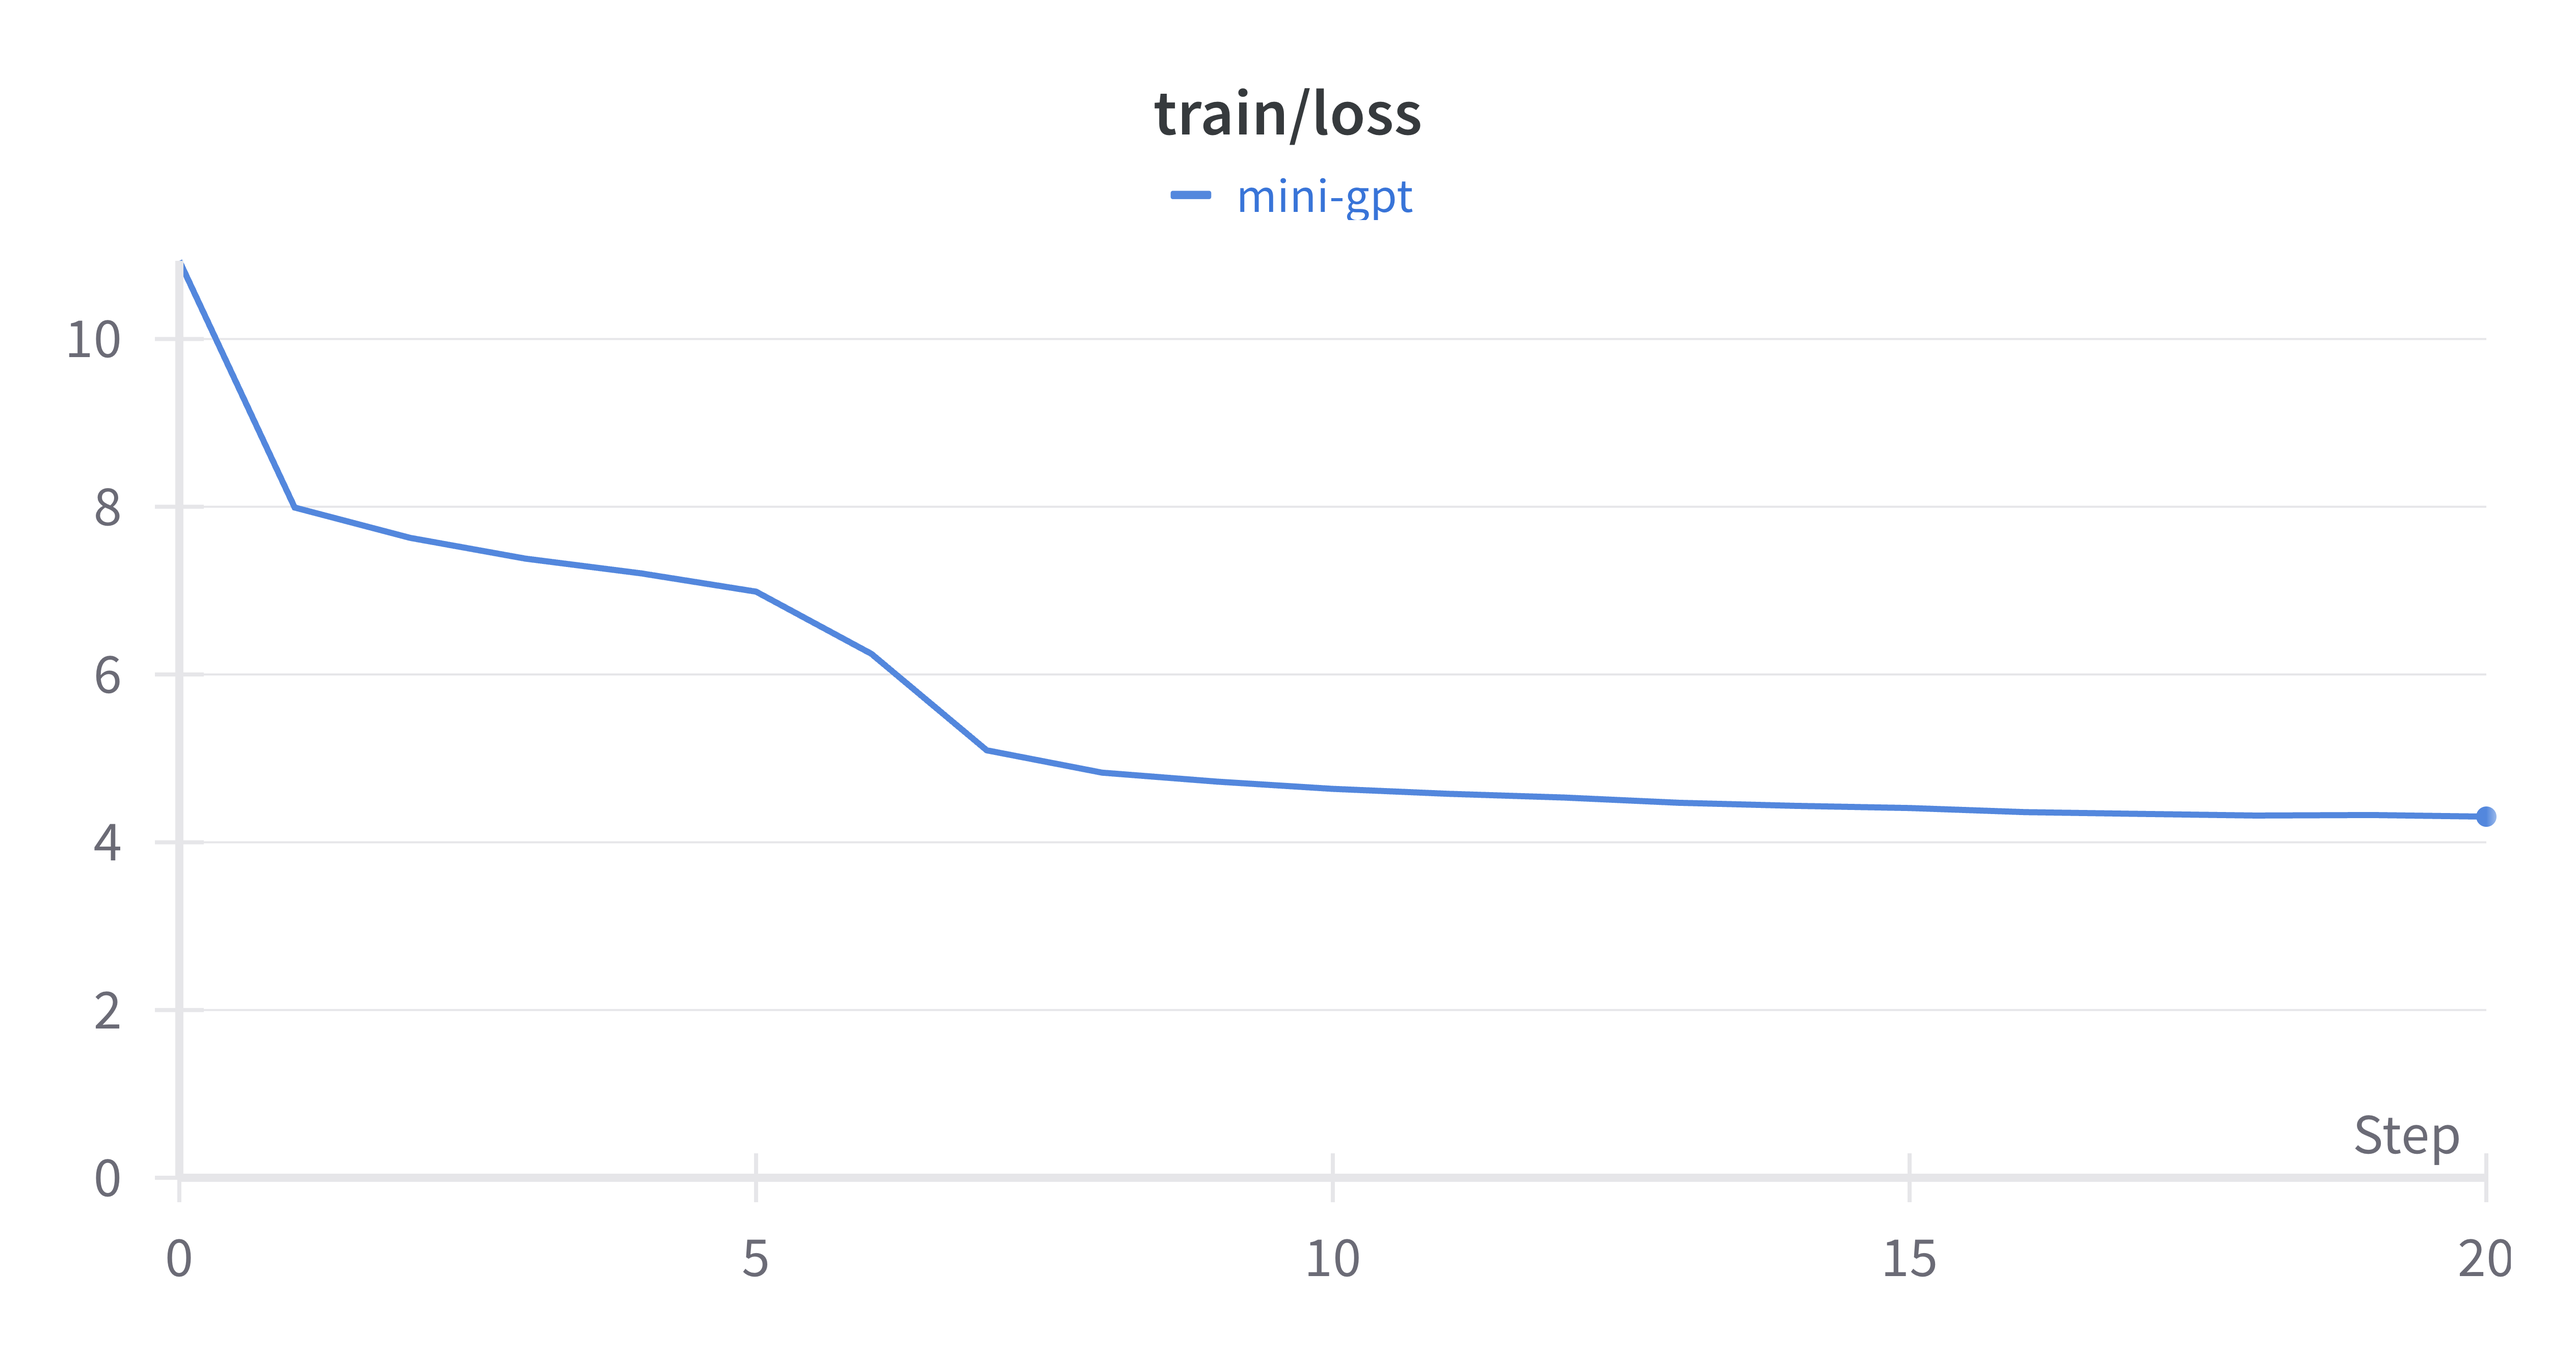
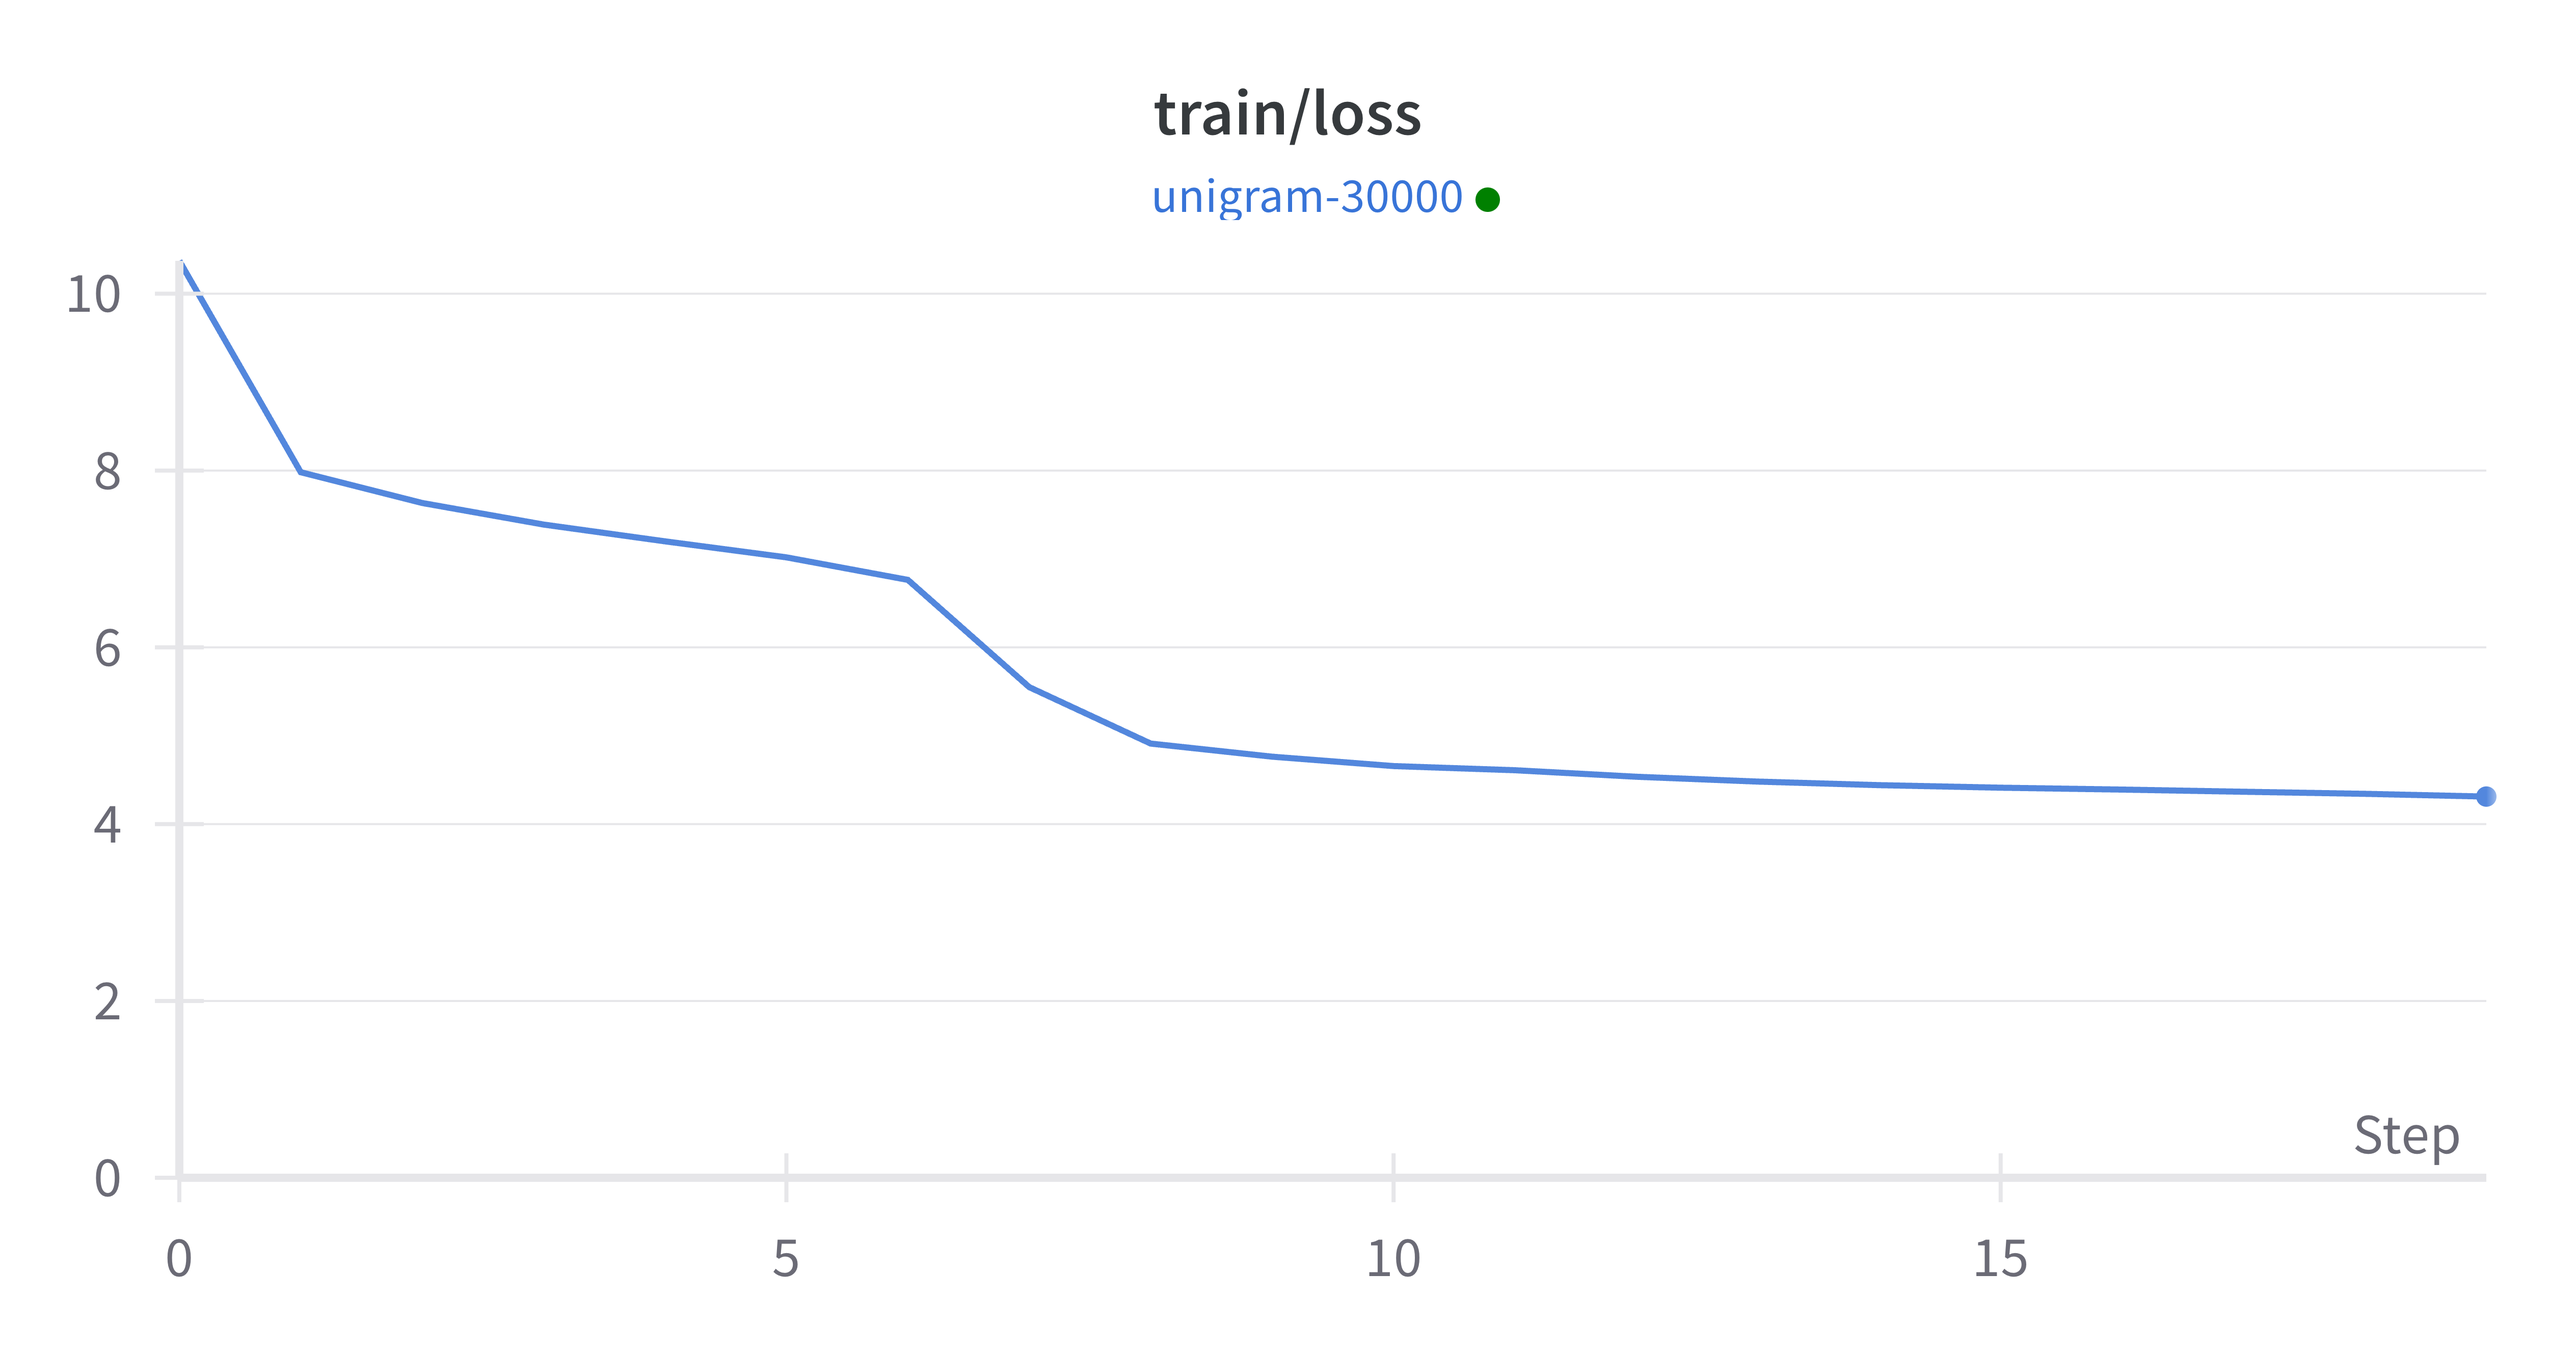
finish 1.st part

diff --git a/train.py b/train.py
@@ -29,6 +29,9 @@ from torch.distributed import init_process_group, destroy_process_group
 
 from model import GPTConfig, GPT
 
+WANDB_API_KEY = '79614754350ba92f82c0502f5e8c9625676cf1b9'
+os.environ["WANDB_API_KEY"] = WANDB_API_KEY
+
 # -----------------------------------------------------------------------------
 # default config values designed to train a gpt2 (124M) on OpenWebText
 # I/O
@@ -155,7 +158,7 @@ if init_from == 'scratch':
 elif init_from == 'resume':
     print(f"Resuming training from {out_dir}")
     # resume training from a checkpoint.
-    ckpt_path = os.path.join(out_dir, 'ckpt.pt')
+    ckpt_path = os.path.join(out_dir, wandb_run_name+'_ckpt.pt')
     checkpoint = torch.load(ckpt_path, map_location=device)
     checkpoint_model_args = checkpoint['model_args']
     # force these config attributes to be equal otherwise we can't even resume training
@@ -241,7 +244,7 @@ def get_lr(it):
 # logging
 if wandb_log and master_process:
     import wandb
-    wandb.login(key="79614754350ba92f82c0502f5e8c9625676cf1b9")
+    wandb.login(key=WANDB_API_KEY)
     wandb.init(project=wandb_project, name=wandb_run_name, config=config)
 
 # training loop
@@ -281,7 +284,7 @@ while True:
                     'config': config,
                 }
                 print(f"saving checkpoint to {out_dir}")
-                torch.save(checkpoint, os.path.join(out_dir, 'ckpt.pt'))
+                torch.save(checkpoint, os.path.join(out_dir, wandb_run_name+'ckpt.pt'))
     if iter_num == 0 and eval_only:
         break
 

diff --git a/sample.py b/sample.py
@@ -12,7 +12,8 @@ import sentencepiece as spm
 # -----------------------------------------------------------------------------
 init_from = 'resume' # either 'resume' (from an out_dir) or a gpt2 variant (e.g. 'gpt2-xl')
 out_dir = 'out' # ignored if init_from is not 'resume'
-tokenizer = 'bpe'
+wandb_run_name = 'unigram-30000'
+tokenizer = None
 vocab_size = 30000
 start = "\n" # or "<|endoftext|>" or etc. Can also specify a file, use as: "FILE:prompt.txt"
 num_samples = 10 # number of samples to draw
@@ -37,7 +38,7 @@ ctx = nullcontext() if device_type == 'cpu' else torch.autocast(device_type=devi
 # model
 if init_from == 'resume':
     # init from a model saved in a specific directory
-    ckpt_path = os.path.join(out_dir, 'ckpt.pt')
+    ckpt_path = os.path.join(out_dir, wandb_run_name+'ckpt.pt')
     checkpoint = torch.load(ckpt_path, map_location=device)
     gptconf = GPTConfig(**checkpoint['model_args'])
     model = GPT(gptconf)
@@ -60,7 +61,7 @@ if compile:
 load_meta = False
 if init_from == 'resume' and 'config' in checkpoint and 'dataset' in checkpoint['config']: # older checkpoints might not have these...
     meta_path = os.path.join('data', checkpoint['config']['dataset'], 'meta.pkl')
-    load_meta = os.path.exists(meta_path)
+    load_meta = os.path.exists(meta_path) and tokenizer is None
 if load_meta:
     print(f"Loading meta from {meta_path}...")
     with open(meta_path, 'rb') as f:

diff --git a/config/train_lyrics_params.py b/config/train_lyrics_params.py
@@ -1,6 +1,6 @@
 # train a miniature character-level lyrics model
 
-out_dir = 'out-lyrics'
+out_dir = 'out-lyrics-params'
 eval_interval = 250 # keep frequent because we'll overfit
 eval_iters = 200
 log_interval = 10 # don't print too too often
@@ -9,21 +9,22 @@ log_interval = 10 # don't print too too often
 always_save_checkpoint = False
 
 wandb_log = True # override via command line if you like
-wandb_project = 'lyrics-unigram-30000'
-wandb_run_name = 'unigram-30000'
+wandb_project = 'lyrics-params-tuning'
+# wandb_project = 'lyrics-test'
+# wandb_run_name = 'block_64'
 
 dataset = 'lyrics'
 gradient_accumulation_steps = 1
 batch_size = 64
-block_size = 256 # context of up to 256 previous characters
+block_size = 512 # context of up to 256 previous characters
 
 # baby GPT model :)
 n_layer = 6
 n_head = 6
 n_embd = 384
-dropout = 0.2
+dropout = 0.1
 
-learning_rate = 1e-3 # with baby networks can afford to go a bit higher
+learning_rate = 1e-2 # with baby networks can afford to go a bit higher
 max_iters = 5000
 lr_decay_iters = 5000 # make equal to max_iters usually
 min_lr = 1e-4 # learning_rate / 10 usually
@@ -33,4 +34,7 @@ warmup_iters = 100 # not super necessary potentially
 
 # on macbook also add
 # device = 'cpu'  # run on cpu only
+device = 'cuda:0'
 compile = False # do not torch compile the model
+
+wandb_run_name = '{}_{}_{}_{}'.format(batch_size, block_size, dropout, learning_rate)

diff --git a/data/lyrics/prepare.py b/data/lyrics/prepare.py
@@ -1,6 +1,7 @@
 import os
 import json
 import numpy as np
+import pickle
 import sentencepiece as spm
 
 # preprocess data
@@ -53,7 +54,7 @@ def train(model_type, vocab_size, data_type=""):
 # Train
 model_type = 'unigram'
 vocab_size = 30000
-train(model_type, vocab_size)
+# train(model_type, vocab_size)
 
 # encode
 tokendizer_path = os.path.join(os.path.dirname(__file__), 'tokenizers/{}/vocab_{}.model'.format(model_type, vocab_size))
@@ -74,3 +75,10 @@ test_ids = np.array(test_ids, dtype=np.uint16)
 train_ids.tofile(os.path.join(os.path.dirname(__file__), 'train.bin'))
 val_ids.tofile(os.path.join(os.path.dirname(__file__), 'val.bin'))
 test_ids.tofile(os.path.join(os.path.dirname(__file__), 'test.bin'))
+
+# save the meta information as well, to help us encode/decode later
+meta = {
+    'vocab_size': vocab_size,
+}
+with open(os.path.join(os.path.dirname(__file__), 'meta.pkl'), 'wb') as f:
+    pickle.dump(meta, f)

diff --git a/evaluate.py b/evaluate.py
@@ -10,7 +10,8 @@ from tqdm import trange
 
 # -----------------------------------------------------------------------------
 init_from = 'resume' # either 'resume' (from an out_dir) or a gpt2 variant (e.g. 'gpt2-xl')
-out_dir = 'out-lyrics-char' # ignored if init_from is not 'resume'
+out_dir = 'out-lyrics' # ignored if init_from is not 'resume'
+wandb_run_name = 'unigram-30000'
 
 dataset = 'lyrics_char'
 batch_size = 64
@@ -35,7 +36,7 @@ ctx = nullcontext() if device_type == 'cpu' else torch.autocast(device_type=devi
 # load model
 if init_from == 'resume':
     # init from a model saved in a specific directory
-    ckpt_path = os.path.join(out_dir, 'ckpt.pt')
+    ckpt_path = os.path.join(out_dir, wandb_run_name+'ckpt.pt')
     checkpoint = torch.load(ckpt_path, map_location=device)
     gptconf = GPTConfig(**checkpoint['model_args'])
     model = GPT(gptconf)

diff --git a/config/eval_finetune_lyrics_large.py b/config/eval_finetune_lyrics_large.py
@@ -1,18 +1,18 @@
 # evaluate PPL for lyrics
 
 init_from = 'resume' # either 'resume' (from an out_dir) or a gpt2 variant (e.g. 'gpt2-xl')
-out_dir = 'out-lyrics-params' # ignored if init_from is not 'resume'
+out_dir = '/root/autodl-tmp/out-lyrics-large' # ignored if init_from is not 'resume'
 
 dataset = 'lyrics'
-batch_size = 64
-block_size = 512 # context of up to 256 previous characters
+batch_size = 32
+block_size = 256 # context of up to 256 previous characters
 stride = 64
 
 seed = 1337
 device = 'cuda' # examples: 'cpu', 'cuda', 'cuda:0', 'cuda:1', etc.
 compile = False # use PyTorch 2.0 to compile the model to be faster
 
-dropout = 0.1
-learning_rate = 1e-4
+dropout = 0.2
+learning_rate = 1e-3
 
-wandb_run_name = '{}_{}_{}_{}'.format(batch_size, block_size, dropout, learning_rate)
+wandb_run_name = 'ft-1703616000.955568'

diff --git a/config/eval_finetune_lyrics_char_large.py b/config/eval_finetune_lyrics_char_large.py
@@ -1,0 +1,15 @@
+# evaluate PPL for lyrics
+
+init_from = 'resume' # either 'resume' (from an out_dir) or a gpt2 variant (e.g. 'gpt2-xl')
+out_dir = '/root/autodl-tmp/out-lyrics-char-large' # ignored if init_from is not 'resume'
+
+dataset = 'lyrics_char'
+batch_size = 32
+block_size = 256 # context of up to 256 previous characters
+stride = 64
+
+seed = 1337
+device = 'cuda' # examples: 'cpu', 'cuda', 'cuda:0', 'cuda:1', etc.
+compile = False # use PyTorch 2.0 to compile the model to be faster
+
+wandb_run_name = 'ft-1703613029.7083075'

diff --git a/config/sample_lyrics.py b/config/sample_lyrics.py
@@ -4,6 +4,7 @@ init_from = 'resume' # either 'resume' (from an out_dir) or a gpt2 variant (e.g.
 tokenizer = 'unigram'
 vocab_size = 30000
 out_dir = 'out-lyrics' # ignored if init_from is not 'resume'
+wandb_run_name = 'unigram-30000'
 start = "FILE:data/lyrics_char/my_lyrics.txt" # or "<|endoftext|>" or etc. Can also specify a file, use as: "FILE:prompt.txt"
 num_samples = 2 # number of samples to draw
 temperature = 0.8 # 1.0 = no change, < 1.0 = less random, > 1.0 = more random, in predictions

diff --git a/CL_report.md b/CL_report.md
@@ -1,6 +1,6 @@
 # 计算语言学大作业-实验报告
 
-> 庾源清 王哲凡
+> 庾源清 2023310756 王哲凡 20233107xx
 
 ## 0. 实验环境搭建
 
@@ -39,7 +39,7 @@ python sample.py --out_dir=out-shakespeare-char
 
 
 #### 1.1.2 模型训练
-仿照nanoGPT⾥shakespeare_char，设置训练参数config/train_lyrics_char.py
+仿照nanoGPT⾥shakespeare_char，设置训练参数config/train_lyrics_char.py (选择最小规模的参数构建babyGPT)
 
 运行命令
 
@@ -115,7 +115,7 @@ PPL = 8.036737442016602
 python train.py config/train_lyrics.py
 ```
 
-训练5000轮后，train/loss=4.3054，val/loss=4.6454
+训练5000轮后，train/loss=4.30251，val/loss=4.67227
 
 Train Loss曲线和Validation Loss曲线如下:
 
@@ -133,7 +133,7 @@ python evaluate.py config/eval_lyrics.py
 得到结果
 
 ```
-PPL = 57.463218688964844
+PPL = 58.53092575073242
 ```
 
 
@@ -165,13 +165,63 @@ PPL = 57.463218688964844
 
 有如下观察：
 1. 模型具有一定的续写能力，逻辑上和句法上没太大问题。
-2. 模型在生成长文本时表现比char-level模型更好。虽然也出现了一定程度上的歌词重复，但中间存在一些歌词跳出原有的重复循环，重复率比char-level模型低很多。
+2. 模型在生成长文本时表现比字符级别模型更好。虽然也出现了一定程度上的歌词重复，但中间存在一些歌词跳出原有的重复循环，重复率比字符级别模型低很多。
 
 
-#### 1.2.4 char-level模型比较
+#### 1.2.4 初始loss与词表大小关系
 
-与char-level模型相比，训练开始时的loss时⾼了。在第一个step中，（TODO：通过计算给出模型训练第⼀个step loss的⼤概取值随词表⼤⼩的估计）
+与字符级别模型相比，分词后语言模型的初始loss更高。
+
+原因解释：假设词表大小为 $V$，在第一个step中模型通常会给予词表中每个单词近似相等的预测概率 $\frac{1}{V}$。在交叉熵损失函数中，对于单个实例:
+$$loss(i) = -\sum_{i=1}^Vy_ilog(p_i) = -log(\frac{1}{V})=log(V)$$
+
+在全部序列上，整体平均loss也是 $log(V)$
+
+对于字符级别模型，词表大小为7409，初始loss约为 $log(V)\approx8.91$
+
+对于分词后模型，词表大小为30000，初始loss约为 $log(V)\approx10.31$
+
+估算结果与实验log一致。
+
 
 ### 1.3 调参
 
-TODO
+保持模型架构不变(babyGPT)，首先考虑调整 block_size和batch_size 这两个参数。考虑到显存限制，block_size 取  $[128,256,512]$，batch_size 取 $[32,64,128]$，主要参数组合及对应效果如下所示：
+
+| Block_size | Batch_size | Train/loss | Val/loss  | PPL       |
+| ---------- | ---------- | ---------- | --------- | --------- |
+| 128        | 64         | 5.143      | 5.473     | 97.54     |
+| 128        | 128        | 4.715      | 5.128     | 70.67     |
+| 256        | 64         | 4.303      | 4.672     | 58.53     |
+| 256        | 128        | 3.957      | 4.421     | **46.92** |
+| 512        | 32         | 4.143      | 4.477     | 66.11     |
+| 512        | 64         | **3.736**  | **4.145** | 47.57     |
+
+
+<img src="figs/3-valid_loss.png" style="zoom:20%;" />
+
+有如下观察：
+
+1. 在当前显存限制下，block_size和batch_size越大，loss越低，PPL在block_size=256，batch_size=128时达到最优。具体而言，在block_size不变时，batch_size越大，loss和PPL越低；block_size不变时，batch_size越大，loss越低和PPL越低。且block_size对结果的影响更大。
+2. 存在轻微的过拟合现象。例如对于(512,64)的参数选择，loss最低，但测试集上PPL不是最优。
+
+
+此外，我们还对于不同的drop_out和learning_rate进行了适当测试，固定block_size=512，batch_size=64，结果如下表所示：
+
+| Drop_out | Learning_rate | Train/loss | Val/loss | PPL       |
+| -------- | ------------- | ---------- | -------- | --------- |
+| 0.3      | 1e-3          | 3.991      | 4.351    | 58.71     |
+| 0.2      | 1e-3          | 3.736      | 4.145    | 47.57     |
+| 0.1      | 1e-3          | **3.589**  | **4.051**| **43.53** |
+| 0.1      | 1e-2          | 8.300      | 8.628    | 5005.71   |
+| 0.1      | 1e-4          | 5.201      | 5.516    | 205.30    |
+
+
+
+<img src="figs/4-valid_loss.png" style="zoom:20%;" />
+
+有如下观察：
+
+1. 由训练loss曲线可以看到，learning_rate过小(1e-4)会导致收敛很慢，而learning_rate过大(1e-2)导致没有收敛。
+2. 模型在drop_out=0.1时取得最好效果。
+
